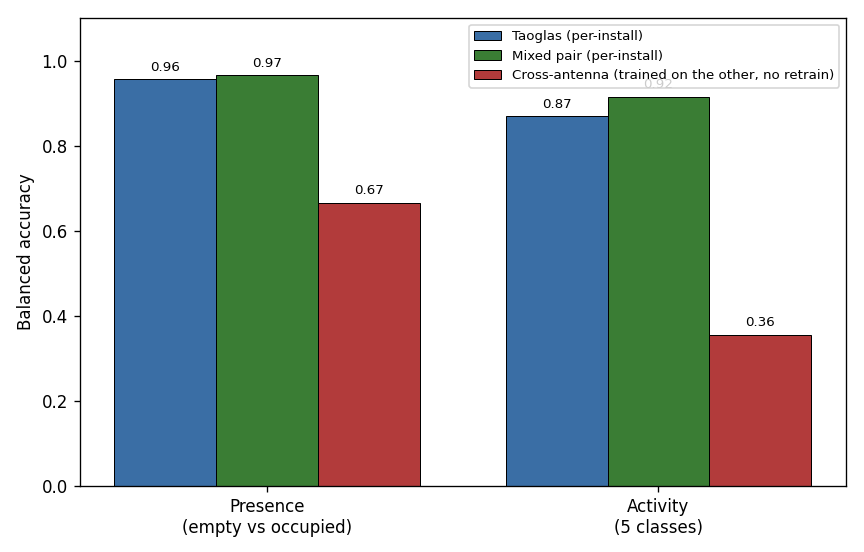
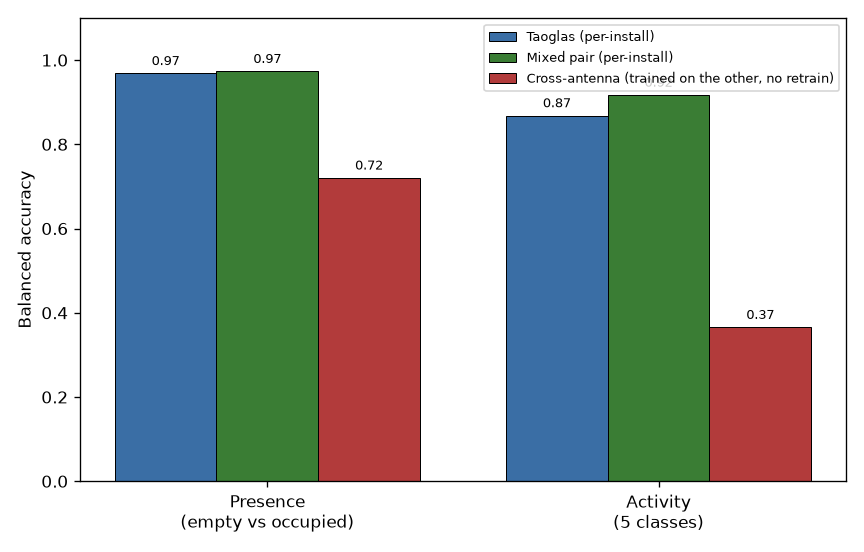
Fix slide 7 confusion-matrix figure and remove em dashes
Slide 7 (Taoglas vs. mixed pair): regenerated fig13 to drop the "n="
caption line and widen panel spacing so "Actual activity" no longer
overlaps the neighboring panel; swapped only that image in the live
pptx (byte-level, preserving all other hand-made edits to the deck).

Removed em dashes across this week's deliverables (pptx text runs,
talking points, and the two standing docx reports), substituting
colons/semicolons/commas per sentence. Builder scripts updated at the
source so future regenerations stay consistent.

diff --git a/slides_assets/build_week2_update_talkingpoints.py b/slides_assets/build_week2_update_talkingpoints.py
@@ -36,7 +36,7 @@ def para(doc, text='', size=12, bold=False, italic=False, align=None, space_afte
 
 
 def slide_heading(doc, n, title):
-    p = para(doc, f'Slide {n} — {title}', size=14, bold=True, space_after=4)
+    p = para(doc, f'Slide {n}: {title}', size=14, bold=True, space_after=4)
     p.paragraph_format.space_before = Pt(16)
     return p
 
@@ -56,7 +56,7 @@ normal.font.name = FONT
 normal.font.size = Pt(12)
 normal.font.color.rgb = BLACK
 
-para(doc, 'CSI Sensing — Week 2 Update: Talking Points', size=16, bold=True,
+para(doc, 'CSI Sensing, Week 2 Update: Talking Points', size=16, bold=True,
     align=WD_ALIGN_PARAGRAPH.CENTER, space_after=2)
 para(doc, 'Speaker notes for CSI_Week2_Update_Slides.pptx', size=12,
     align=WD_ALIGN_PARAGRAPH.CENTER, space_after=2)
@@ -80,9 +80,9 @@ bullet(doc, 'Why "fully wireless" matters: ', 'previously the receiver only '
 bullet(doc, 'Why the antenna question got re-run: ', 'last week’s antenna '
     'result (stock vs. Taoglas) used the older wired pipeline. Repeating it '
     'wirelessly, with more placements across more rooms, is an independent '
-    'check of the same conclusion — if it agrees, the result is confirmed '
+    'check of the same conclusion; if it agrees, the result is confirmed '
     'rather than resting on one dataset.')
-bullet(doc, 'The two boss follow-ups: ', 'from last week’s review — define '
+bullet(doc, 'The two boss follow-ups: ', 'from last week’s review: define '
     'balanced accuracy mathematically and compare it to plain accuracy '
     '(slide 6), and show a histogram of the training data (slide 4). Both are '
     'new content this week, not just repeated from the written report.')
@@ -90,21 +90,21 @@ bullet(doc, 'The two boss follow-ups: ', 'from last week’s review — define '
 # ---------------- Slide 3 ----------------
 slide_heading(doc, 3, 'The dataset')
 bullet(doc, 'What changed from last week’s numbers: ', 'this is the wireless, '
-    'single-antenna (Taoglas on both boards) production dataset — it does '
+    'single-antenna (Taoglas on both boards) production dataset: it does '
     'NOT include the mixed-antenna recordings (one board per antenna type), '
     'which exist only to answer the antenna-transfer question on slides 8–9 '
     'and are kept separate on purpose.')
 bullet(doc, 'The counts: ', '34 sessions across 15 configurations (room × '
     'placement) in four different rooms, ~104 minutes of recording, 608,799 '
-    'CSI packets, sliced into 4,241 labeled 2-second/1-second-hop windows — '
+    'CSI packets, sliced into 4,241 labeled 2-second/1-second-hop windows, '
     'the same window scheme used throughout this project.')
 bullet(doc, 'One subject, four rooms: ', 'cross-subject generalization is '
-    'still untested — same caveat as always, worth naming if asked.')
+    'still untested; same caveat as always, worth naming if asked.')
 
 # ---------------- Slide 4 ----------------
 slide_heading(doc, 4, 'Histogram of the training data')
 bullet(doc, 'What is being counted: ', 'the exact same 4,241 windows behind '
-    'slide 3’s numbers, broken out by class label — this is a direct visual '
+    'slide 3’s numbers, broken out by class label; this is a direct visual '
     'of the dataset just described.')
 bullet(doc, 'Why stand/sit/walk/run look roughly even (~820–1,080 each): ',
     'the recording protocol records one long, equal-length continuous block '
@@ -120,24 +120,24 @@ bullet(doc, 'Why empty is smaller (486): ', 'empty windows are capped per '
 slide_heading(doc, 5, 'Inside the model: the whole tree')
 bullet(doc, 'Same figure as last week, on purpose: ', 'the modeling approach '
     '(random forest, same architecture, same feature pipeline) has not '
-    'changed — this week retrains that same recipe on the new wireless '
+    'changed; this week retrains that same recipe on the new wireless '
     'dataset. Showing the same tree diagram again underlines that the method '
     'is stable; what changed this week is the data feeding it, not the model.')
 bullet(doc, 'If asked for details on the diagram itself: ', 'see last week’s '
-    'talking points (or the report) — it is the literal first tree of the '
+    'talking points (or the report): it is the literal first tree of the '
     'real 300-tree production forest, all 1,699 real nodes drawn, top 6 '
     'levels labeled with real thresholds, everything below that as unlabeled '
     'dots (still real nodes, just too many to caption individually).')
 
 # ---------------- Slide 6 ----------------
 slide_heading(doc, 6, 'Balanced accuracy vs. traditional accuracy')
-para(doc, 'This is the slide written specifically for the boss’s request — '
+para(doc, 'This is the slide written specifically for the boss’s request; '
     'take the time here. Wording and worked example follow the same style as '
     'the "Index" section at the end of last week’s written report, just '
     'updated to this week’s numbers.', size=12, italic=True, space_after=6)
 bullet(doc, 'Balanced accuracy, in one line: ', 'the average of the per-class '
     'recalls, instead of the raw fraction of windows called correctly.')
-bullet(doc, 'Why we use it: ', 'the classes are uneven — there are more '
+bullet(doc, 'Why we use it: ', 'the classes are uneven: there are more '
     'occupied/stand windows than empty/run windows. Plain accuracy lets a '
     'model score high just by predicting the majority class; balanced '
     'accuracy weights every class equally, so a less-recorded class (like '
@@ -145,15 +145,15 @@ bullet(doc, 'Why we use it: ', 'the classes are uneven — there are more '
 bullet(doc, 'How it’s calculated: ', 'for each class, recall = (windows of '
     'that class predicted correctly) ÷ (total windows of that class). '
     'Balanced accuracy is just the average of those per-class recalls.')
-bullet(doc, 'Walk through the worked example on the slide slowly — this is '
+bullet(doc, 'Walk through the worked example on the slide slowly; this is '
     'this week’s real held-out presence result, not a hypothetical: ',
-    'empty recall = 171 / 486 = 0.352 — the model only caught about a third '
+    'empty recall = 171 / 486 = 0.352: the model only caught about a third '
     'of the truly-empty windows when tested on a placement it never trained '
-    'on. Occupied recall = 3,469 / 3,755 = 0.924 — it catches occupied '
+    'on. Occupied recall = 3,469 / 3,755 = 0.924: it catches occupied '
     'windows well. Balanced accuracy averages those two: (0.352 + 0.924) / 2 '
-    '= 0.638, which we round to 0.64 — the same number reported on slide 7.')
+    '= 0.638, which we round to 0.64, the same number reported on slide 7.')
 bullet(doc, 'Now show why plain accuracy would have hidden that: ',
-    'traditional accuracy on this same result is 3,640 / 4,241 = 0.858 — a '
+    'traditional accuracy on this same result is 3,640 / 4,241 = 0.858, a '
     'much better-looking 86%. That number is inflated by how much bigger the '
     'occupied class is; it does not reflect that the model is actually weak '
     'at recognizing empty. Balanced accuracy is the number that cannot be '
@@ -161,7 +161,7 @@ bullet(doc, 'Now show why plain accuracy would have hidden that: ',
     'with it.')
 bullet(doc, 'If the boss wants one takeaway line: ', '"Balanced accuracy is '
     'the number that cannot be gamed by a model that just learns to predict '
-    'whichever class has the most examples — that is why every result in '
+    'whichever class has the most examples, which is why every result in '
     'this project is reported that way."')
 
 # ---------------- Slide 7 ----------------

diff --git a/slides_assets/build_week2_update_slides.py b/slides_assets/build_week2_update_slides.py
@@ -103,13 +103,13 @@ r = tf.paragraphs[0].add_run(); r.text = 'Wi-Fi CSI Presence & Activity Sensing'
 setrun(r, 40, True)
 tf2 = textbox(s, 0.8, 3.9, SW - 1.6, 0.8)
 r = tf2.paragraphs[0].add_run()
-r.text = 'End-of-week update — wireless deployment & antenna comparison · July 2026'
+r.text = 'End-of-week update, wireless deployment & antenna comparison · July 2026'
 setrun(r, 20)
 
 # ---- Slide 2: this week -----------------------------------------------------
 s = slide(); title(s, 'This week')
 bullets(s, 0.7, 1.5, SW - 1.4, 5.5, [
-    'The system now runs fully wirelessly — receiver relays CSI over Wi-Fi at '
+    'The system now runs fully wirelessly: the receiver relays CSI over Wi-Fi at '
     'the full native ~97–99 Hz rate, and a live monitor app classifies '
     'presence/activity from a laptop with no cable to the sensor.',
     'Repeated the antenna-portability question from last week, this time '
@@ -132,7 +132,7 @@ bullets(s, 0.7, 1.5, SW - 1.4, 5.5, [
     'Labeled 2-second analysis windows: 4,241',
     'Classes: empty, stand, sit, walk, run',
     'One subject, four rooms, single antenna configuration (Taoglas on both '
-    'boards) — the mixed-antenna pair was recorded separately, only for the '
+    'boards); the mixed-antenna pair was recorded separately, only for the '
     'antenna-comparison test, and is not part of this production dataset.',
 ], size=19)
 
@@ -151,7 +151,7 @@ s = slide(); title(s, 'Inside the model: the whole tree')
 image_fit(s, os.path.join(A, 'fig11_tree_diagram.png'), 0.3, 1.2, SW - 0.6, 5.0)
 bullets(s, 0.9, 6.35, SW - 1.8, 1.0, [
     'Same real tree as last week’s slide (tree #1 of the 300-tree forest, all '
-    '1,699 real nodes) — the modeling approach is unchanged; this week’s work '
+    '1,699 real nodes): the modeling approach is unchanged; this week’s work '
     'retrains the same random-forest recipe on the new wireless dataset.',
 ], size=15)
 
@@ -167,11 +167,11 @@ bullets(s, 0.7, 1.45, SW - 1.4, 1.6, [
 ], size=18)
 mono_lines(s, 0.7, 3.35, SW - 1.4, 2.9, [
     ('How it’s calculated: recall = (windows of that class predicted correctly) ÷ (total windows of that class)', False, True),
-    ('Example — this week’s presence result, held-out (leave-one-config-out):', True, False),
+    ('Example: this week’s presence result, held-out (leave-one-config-out):', True, False),
     ('  empty recall      =   171 / 486    =  0.352   (poor)', False, True),
     ('  occupied recall   = 3,469 / 3,755  =  0.924   (inflated)', False, True),
     ('  balanced accuracy = (0.352 + 0.924) / 2  =  0.638  ≈  0.64', True, False),
-    ('  traditional accuracy = 3,640 / 4,241 = 0.858 ≈ 0.86 — looks much better, but hides the weak empty recall', False, False),
+    ('  traditional accuracy = 3,640 / 4,241 = 0.858 ≈ 0.86, which looks much better but hides the weak empty recall', False, False),
 ], size=18)
 
 # ---- Slide 7: cross-placement result ----------------------------------------
@@ -179,7 +179,7 @@ s = slide(); title(s, 'Cross-placement generalization (wireless)')
 bullets(s, 0.7, 1.5, SW - 1.4, 5.5, [
     'Leave-one-config-out, 15 folds, wireless Taoglas production dataset: '
     'presence 0.64 balanced, 5-class activity 0.37 balanced.',
-    'Same range this project has always seen on the wired data — moving to '
+    'Same range this project has always seen on the wired data; moving to '
     'wireless is not changing the underlying generalization result, which is '
     'reassuring: the relay itself is not introducing a new problem.',
 ], size=19)
@@ -189,9 +189,9 @@ s = slide(); title(s, 'Taoglas vs. mixed pair: per-install accuracy')
 image_fit(s, os.path.join(A, 'fig13_confusion_wireless_antenna.png'), 0.4, 1.3, SW - 0.8, 4.4)
 bullets(s, 0.9, 5.85, SW - 1.8, 1.5, [
     'Left two panels: each antenna condition calibrated and evaluated on its '
-    'own recordings (per-install, 5-fold) — both work well (0.87 / 0.92 '
-    'balanced), same confusions in both (sit/stand, walk/run).',
-    'Right panel: train on Taoglas, test on the mixed pair, no retraining — '
+    'own recordings (per-install, 5-fold). Both work well (0.87 / 0.92 '
+    'balanced), with the same confusions in both (sit/stand, walk/run).',
+    'Right panel: train on Taoglas, test on the mixed pair, no retraining: '
     'the diagonal disappears. Sit gets called stand 63% of the time; run '
     'gets called walk 68% of the time. This is what "does not transfer" '
     'looks like, not just a number.',
@@ -205,14 +205,14 @@ bullets(s, 0.9, 6.05, SW - 1.8, 1.3, [
     'dataset: cross-antenna transfer collapses (5-class 0.36, presence 0.67) '
     'well below either antenna’s own per-install number (0.87–0.97).',
     'External corroboration: CSI-Bench (Zhu et al., 2025, arXiv:2505.21866) '
-    'reports the same pattern industry-wide — cross-device WiFi sensing '
+    'reports the same pattern industry-wide: cross-device WiFi sensing '
     'accuracy drops sharply (e.g. 99.8% → ~70% F1 in their benchmark) due to '
     '"hardware heterogeneity," even without changing the room. Our result is '
     'consistent with a known, general limitation, not an artifact of our setup.',
 ], size=14)
 
 # ---- Slide 8: live field demo -----------------------------------------------
-s = slide(); title(s, 'Live monitor — interface preview')
+s = slide(); title(s, 'Live monitor: interface preview')
 photos = ['Empty.jpg', 'Stand.jpg', 'Sit.jpg']
 labels = ['Empty', 'Standing', 'Sitting']
 pw = (SW - 1.6) / 3
@@ -223,7 +223,7 @@ for i, (fn, lab) in enumerate(zip(photos, labels)):
     r = tf.paragraphs[0].add_run(); r.text = lab
     setrun(r, 16, True)
 bullets(s, 0.8, 6.5, SW - 1.6, 0.8, [
-    'What the live monitor interface looks like once deployed — presence and '
+    'What the live monitor interface looks like once deployed: presence and '
     'activity state, updated from the wireless CSI stream.',
 ], size=13)
 
@@ -233,7 +233,7 @@ bullets(s, 0.7, 1.5, SW - 1.4, 5.5, [
     'Wireless deployment is validated end to end: full native rate, stable '
     'live classification, field-tested interface.',
     'Antenna portability result now confirmed twice (wired and wireless, '
-    'independent datasets) — treating this as settled rather than directional.',
+    'independent datasets); treating this as settled rather than directional.',
     'Continuing to add placements/rooms on the single (Taoglas) antenna to '
     'tighten the cross-placement confidence interval.',
     'Next: keep expanding room/placement coverage on the production antenna; '

diff --git a/gen_wireless_antenna_figs.py b/gen_wireless_antenna_figs.py
@@ -89,23 +89,25 @@ def main():
     cmn_m = cm_m / cm_m.sum(1, keepdims=True) * 100
     cmn_c = cm_c / cm_c.sum(1, keepdims=True) * 100
 
-    fig, axes = plt.subplots(1, 3, figsize=(15.0, 4.8))
-    panels = [(axes[0], cmn_t, 'Taoglas (per-install)', len(yt_t), bal_t),
-              (axes[1], cmn_m, 'Mixed pair (per-install)', len(yt_m), bal_m),
-              (axes[2], cmn_c, 'Taoglas -> Mixed (no retrain)', len(yt_cross), bal_cross)]
-    for ax, cmn, name, n, bal in panels:
+    fig, axes = plt.subplots(1, 3, figsize=(16.5, 4.8),
+                             gridspec_kw=dict(wspace=0.55))
+    panels = [(axes[0], cmn_t, 'Taoglas (per-install)', bal_t),
+              (axes[1], cmn_m, 'Mixed pair (per-install)', bal_m),
+              (axes[2], cmn_c, 'Taoglas -> Mixed (no retrain)', bal_cross)]
+    for ax, cmn, name, bal in panels:
         im = ax.imshow(cmn, cmap='Blues', vmin=0, vmax=100)
         ax.set_xticks(range(len(LABELS))); ax.set_xticklabels(LABELS)
         ax.set_yticks(range(len(LABELS))); ax.set_yticklabels(LABELS)
         ax.set_xlabel('Predicted activity')
-        ax.set_ylabel('Actual activity')
-        ax.text(0.5, -0.22, f'{name}\n(n={n}, balanced {bal:.2f})',
+        ax.set_ylabel('Actual activity', labelpad=8)
+        ax.text(0.5, -0.34, f'{name}\n(balanced {bal:.2f})',
                 transform=ax.transAxes, ha='center', fontsize=10)
         for i in range(len(LABELS)):
             for j in range(len(LABELS)):
                 ax.text(j, i, f'{cmn[i, j]:.0f}', ha='center', va='center', fontsize=9,
                         color='white' if cmn[i, j] > 55 else 'black')
-    fig.colorbar(im, ax=axes, fraction=0.018, pad=0.02).set_label('% of actual class')
+    fig.subplots_adjust(bottom=0.3)
+    fig.colorbar(im, ax=axes, fraction=0.018, pad=0.03).set_label('% of actual class')
     fig.savefig(os.path.join(OUT, 'fig13_confusion_wireless_antenna.png'), dpi=120,
                bbox_inches='tight')
     plt.close(fig)

diff --git a/slides_assets/build_model_comparison_doc.py b/slides_assets/build_model_comparison_doc.py
@@ -1,5 +1,5 @@
 """Build a plain model-comparison report (boss request: "how would various models
-perform — CNNs, deep learning, etc."). Times New Roman 12, black, no theme.
+perform, CNNs, deep learning, etc."). Times New Roman 12, black, no theme.
 
 Reads docs/model_report_assets/model_comparison.json (produced by
 model_comparison.py) so every number is the real, reproducible output.
@@ -71,7 +71,7 @@ def figure(doc, filename, caption, width=6.2):
 
 
 def fmt(v):
-    return "—" if v is None or v != v else f"{v:.2f}"     # em dash for NaN
+    return "N/A" if v is None or v != v else f"{v:.2f}"
 
 
 doc = Document()
@@ -80,7 +80,7 @@ normal.font.name = FONT
 normal.font.size = Pt(12)
 normal.font.color.rgb = BLACK
 
-para(doc, "Wi-Fi CSI Sensing — Model Comparison", size=16, bold=True,
+para(doc, "Wi-Fi CSI Sensing: Model Comparison", size=16, bold=True,
      align=WD_ALIGN_PARAGRAPH.CENTER, space_after=2)
 para(doc, "How different model families perform on the same task", size=12,
      align=WD_ALIGN_PARAGRAPH.CENTER, space_after=2)
@@ -99,7 +99,7 @@ para(doc, "We compared ten model families on the occupancy/activity task, from "
 para(doc, "Two input representations were compared. The eight classical models "
      "receive the same 160 hand-crafted features per window used by the current "
      "pipeline. The two deep networks instead receive the raw calibrated window "
-     "(52 subcarriers x 200 samples) and learn their own features end-to-end — "
+     "(52 subcarriers x 200 samples) and learn their own features end-to-end: "
      "this is the fairest test of whether deep learning helps here.")
 
 # --- Table ---
@@ -141,8 +141,8 @@ figure(doc, "fig7_model_comparison.png",
 heading(doc, "What the comparison shows")
 bullet(doc, "Model choice barely changes cross-placement activity. ",
        "Every model lands between 0.37 and 0.46 balanced accuracy on an unseen "
-       "placement — the 1-D CNN is nominally best (0.46), naive Bayes and gradient "
-       "boosting next (0.45, 0.44), the random forest 0.42 — but the spread is "
+       "placement, with the 1-D CNN nominally best (0.46), naive Bayes and gradient "
+       "boosting next (0.45, 0.44), and the random forest at 0.42, but the spread is "
        "within noise. No algorithm breaks out. The ceiling here is set by the "
        "single-antenna viewpoint and the amount of data, not by the model. A fancier "
        "model does not fix cross-placement activity; a second receiver is the lever.")
@@ -154,14 +154,14 @@ bullet(doc, "For presence, engineered features beat raw deep learning decisively
        "rediscover it as well.")
 bullet(doc, "The deep networks captured motion but missed stillness. ",
        "The CNN had the best walk and run recall of any model (0.67 and 0.54) yet the "
-       "worst empty and sit recall — it learns movement dynamics from the raw signal "
+       "worst empty and sit recall: it learns movement dynamics from the raw signal "
        "but confuses an empty room with a still person. The feature-based models are "
        "the opposite: they nail empty. This is a useful pointer for combining them "
        "later.")
 bullet(doc, "Once calibrated on-site, the simplest models win. ",
        "Per-install, logistic regression (0.85) and the RBF-SVM (0.83) actually beat "
        "the tree ensembles (0.79–0.80). With an on-site empty baseline the features "
-       "become cleanly separable, so a light linear model is enough — no heavy model "
+       "become cleanly separable, so a light linear model is enough; no heavy model "
        "needed for the realistic deployment mode.")
 bullet(doc, "Deep learning does not beat the random forest at this data scale. ",
        "With ~5,000 windows from one subject, the CNN and GRU do not outperform the "
@@ -175,7 +175,7 @@ heading(doc, "Recommendation")
 para(doc, "Keep the random forest as the default model: it is at or near the top for "
      "presence (0.84), competitive on activity, needs no feature scaling or tuning, "
      "trains in seconds, and is interpretable. The result to take away is that the "
-     "current limitations are a sensing limitation, not a modeling one — no model in "
+     "current limitations are a sensing limitation, not a modeling one: no model in "
      "this sweep, including deep networks, removes the cross-placement activity wall. "
      "That is the direct argument for adding a second and third receiver rather than "
      "investing in a heavier model on a single link.")